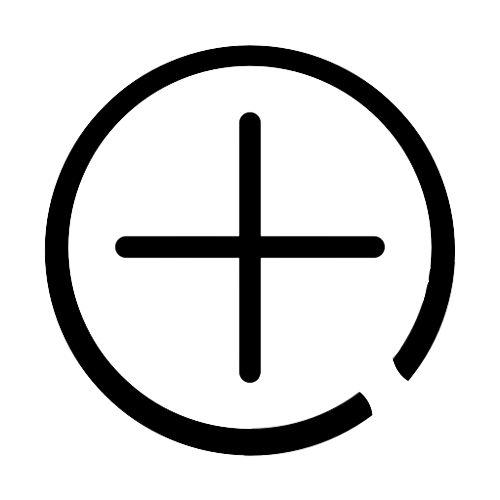
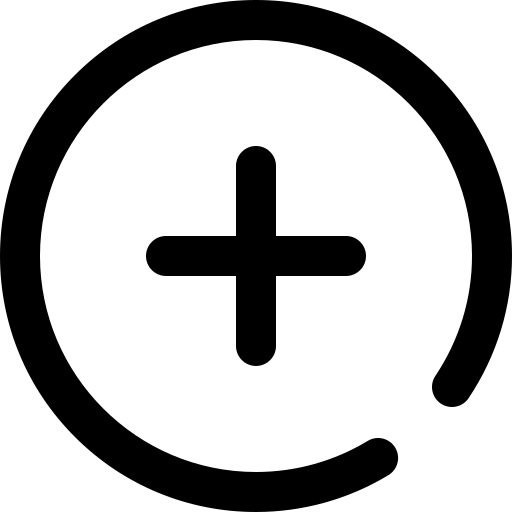
share my story page fixed

diff --git a/shareMyStory.html b/shareMyStory.html
@@ -34,7 +34,7 @@
         <div class="profilePicture">
             <img src="https://encrypted-tbn0.gstatic.com/images?q=tbn:ANd9GcTfAcQBipWyY0qIXJvbIEOnGmkvcXJBKA-3Yg&usqp=CAU"
                 alt="">
-            <img class="check right-tick" src="./images/check 1admin.png" alt="">
+            <img class="check" src="./images/check 1admin.png" alt="">
         </div>
     </nav>
 
@@ -50,10 +50,10 @@
                 <a href="./events.html">My Events</a>
                 <a href="./donate.html">Donate</a>
                 <a href="./differenceIMade.html">Difference I Made</a>
-                <a href="./shareMyStory.html" style="background-color: #D9D9D9;">Share My Story</a>
+                <a href="./shareMyStory.html">Share My Story</a>
                 <a href="./addMarshalls.html">Add a Marshal</a>
                 <a href="./settings.html">Settings & Support</a>
-                <a href="./coreTeam.html">Contact Team</a>
+                <a href="./coreTeam.html" style="background-color: #D9D9D9;">Contact Team</a>
                 <a href="./alert.html">Send an Alert</a>
             </ul>
             <div class="cross">
@@ -62,17 +62,14 @@
         </div>
     </div>
 
-
     <!-- shareMyStory -->
 
 
-
-
     <div class="container">
-        <div class="profilePicture sms">
+        <div class="profilePicture pp-sms">
             <img src="https://encrypted-tbn0.gstatic.com/images?q=tbn:ANd9GcTfAcQBipWyY0qIXJvbIEOnGmkvcXJBKA-3Yg&usqp=CAU"
                 alt="">
-            <img class="chec right-tickk" src="./images/check 1admin.png" alt="">
+            <img class="check right-tick" src="./images/check 1admin.png" alt="">
         </div>
         <div class="name">
             <h2> FULL NAME</h2>
@@ -83,28 +80,27 @@
         <div class="sm-container">
             <div class="add-post">
                 <h3>Add Post</h3>
-                <span class="material-symbols-outlined">
-                    add_circle
-                </span>
+                <img src="./images/plus.png" alt="">
             </div>
             <div class="share-my-story">
                 <h3>Share My Story</h3>
-                <span class="material-symbols-outlined">
-                    share
-                </span>
+                <img src="./images/share (1).png" alt="">
             </div>
             <div class="add-previous-story">
                 <h3>Add Previous Story</h3>
-                <span class="material-symbols-outlined">
-                    add_circle
-                </span>
+                <img src="./images/story.png" alt="">
             </div>
         </div>
         <div class="post-something">
-            <img src="./images/upload.png" alt="" class="upload-image"> <br>
+            <img src="./images/upload.gif" alt="" class="upload-image"> <br>
             <h4 class="textt">Post Something!</h4> <br>
-            <button>Choose File</button>
-            <button>Upload</button>
+            <form action="">
+                <label class="custom-file-upload">
+                    <input type="file" />
+                    Choose File
+                </label>
+                <input type="submit" class="btn">
+            </form>
         </div>
         <div class="no-post-yet">
             <h2>No Post Yet</h2>

diff --git a/css/shareMyStory.css b/css/shareMyStory.css
@@ -3,8 +3,10 @@
 * {
   margin: 0;
   padding: 0;
-  box-sizing: border-box;
   font-family: "Roboto", sans-serif;
+}
+html {
+  scroll-behavior: smooth;
 }
 .container {
   display: flex;
@@ -14,55 +16,71 @@
   flex-direction: column;
   margin: auto;
 }
+.pp-sms img:first-of-type {
+  /* height: 180px; */
+  width: 45%;
+  border: 8px solid #6af491;
+  padding: 5px;
+  border-radius: 50%;
+}
+.pp-sms .right-tick {
+  height: 50px;
+  width: 50px;
+  margin-left: -50px;
+}
+
+/* .container .right-tick {
+  width: 30%;
+} */
 .sms {
   width: 80px;
   height: 80px;
 }
 .name {
-  margin-top: 20px;
+  margin-top: 30px;
+  margin-bottom: 10px;
   font-size: 20px;
 }
 .role {
   opacity: 70%;
+  margin-bottom: 0px;
 }
 .sm-container {
   display: flex;
-  width: 50%;
+  justify-content: center;
+  width: 100%;
+  height: 20vh;
   margin: 5px;
+  /* border: 3px solid red; */
 }
-.right-tick {
-  position: absolute;
-  top: 20px;
-  left: 28px;
-}
-.right-tickk {
-  position: absolute;
-  top: 48px;
-  left: 62px;
+.sm-container img {
+  width: 30px;
+  cursor: pointer;
 }
 h3 {
   margin: 10px;
 }
 .add-post {
-  flex: 30%;
+  /* flex: 30%; */
   background: url(plus.png);
 }
 .share-my-story {
-  flex: 30%;
+  /* flex: 30%; */
 }
 .add-previous-story {
-  flex: 30%;
+  /* flex: 30%; */
 }
 .post-something {
+  position: absolute;
+  top: 435px;
   display: inline-block;
   align-items: center;
   text-align: center;
   position: absolute;
-  height: 25%;
-  width: 50%;
+  height: 30%;
+  width: 70%;
   background-color: white;
   border-radius: 10px;
-  margin-top: 5%;
   box-shadow: #63636333 0px 2px 8px 0px;
 }
 .no-post-yet {
@@ -78,13 +96,56 @@ h3 {
   color: white;
 }
 .upload-image {
-  margin: 10px;
+  margin-top: 8px;
   padding: 10px;
   margin-bottom: 5px;
-  width: 70px;
+  width: 80px;
   cursor: pointer;
 }
-button {
+form .btn-form {
+  /* position: relative; */
+  border: none;
+}
+input[type="file"] {
+  display: none;
+}
+.custom-file-upload {
+  border: 1px solid #ccc;
+  color: white;
+  display: inline-block;
+  padding: 6px 12px;
+  cursor: pointer;
+  background: #33cccc;
+  border-radius: 10px;
+  border: none;
+  font-size: 15px;
+  font-weight: bold;
+}
+
+/* div {
+  border: 1px solid #ccc;
+  display: inline-block;
+  padding: 6px 12px;
+  cursor: pointer;
+  background: #33cccc;
+  border-radius: 10px;
+  border: none;
+  font-size: 15px;
+  font-weight: bold;
+}
+
+label {
+  display: inline-block;
+  position: relative;
+  height: 100px;
+  width: 400px;
+}
+
+div.dragover {
+  background-color: #aaa;
+} */
+form .btn {
+  position: relative;
   background: #33cccc;
   height: 30px;
   width: 100px;
@@ -92,19 +153,18 @@ button {
   border: none;
   font-size: 15px;
   font-weight: bold;
+  margin-left: 8px;
   margin-right: 5px;
   margin-bottom: 5px;
   cursor: pointer;
+  color: white;
 }
-@media (max-width: 900px) {
+@media (max-width: 500px) {
   .post-something {
-    margin-top: 22%;
-    height: 30%;
-    width: 50%;
+    height: 34%;
+    width: 85%;
   }
-  .right-tick {
-    position: absolute;
-    top: 18px;
-    left: 20px;
+  form .btn {
+    margin-top: 7px;
   }
 }
